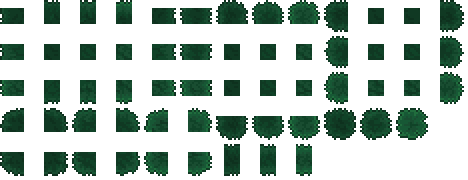
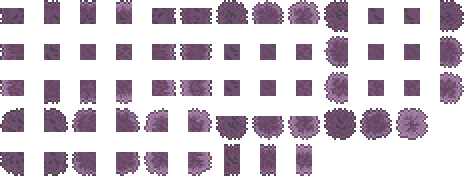
Cherry blossom walls

diff --git a/Biomes/JadeLake/JadeLakePolishWorldGen.cs b/Biomes/JadeLake/JadeLakePolishWorldGen.cs
@@ -32,7 +32,7 @@ namespace JadeFables.Biomes.JadeLake
             PlaceJadeChests(worldRect, 40);
 
             //Places blossom walls
-            BlossomWallPopulation(worldRect, 0.03f, 5f, 3, 5, 7, 10f);
+            BlossomWallPopulation(worldRect, 0.03f, 5f, 3, 3, 5, 10f);
 
             //Places jade grass
             JadeGrassPopulation(worldRect, 0.1f, 5f);

diff --git a/Tiles/BlossomWall/BlossomWall.cs b/Tiles/BlossomWall/BlossomWall.cs
@@ -15,7 +15,7 @@ namespace JadeFables.Tiles.BlossomWall
 			WallID.Sets.Conversion.Grass[Type] = true;
 			DustType = DustID.Grass;
 			HitSound = SoundID.Grass;
-			AddMapEntry(new Color(50, 140, 90));
+			AddMapEntry(Color.HotPink);
 		}
 
 		public override void PostDraw(int i, int j, SpriteBatch spriteBatch)
